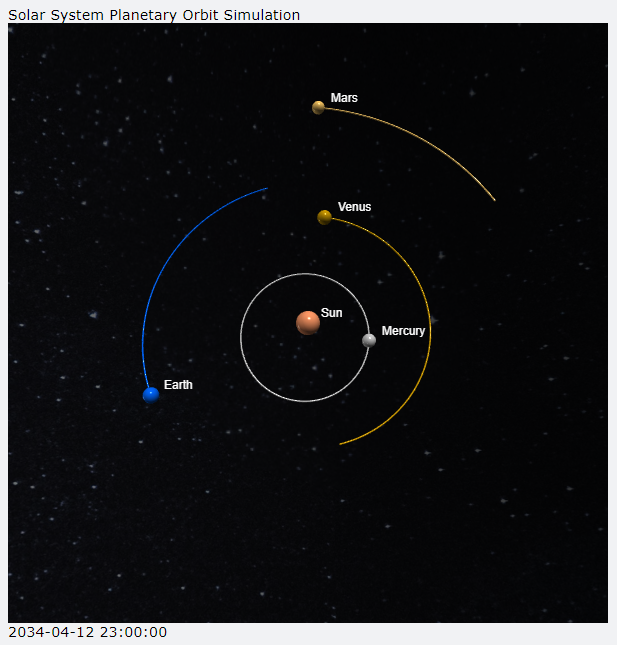
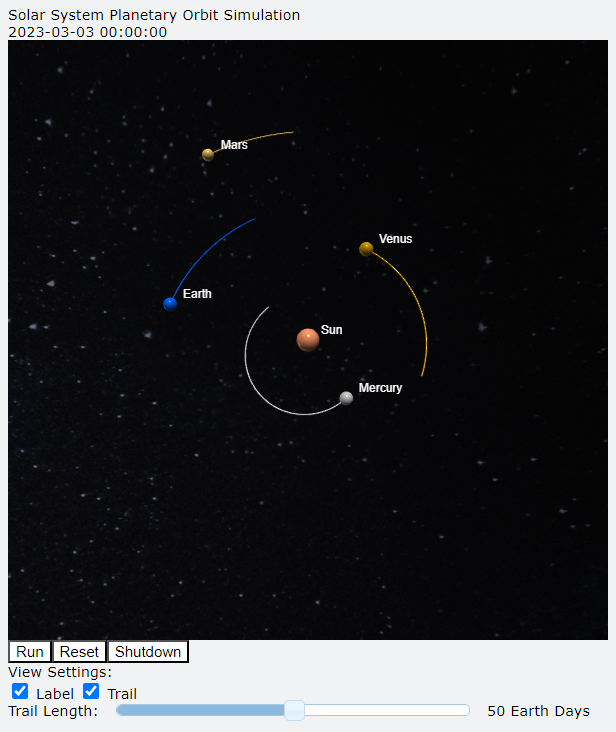
add reset shutdown button

diff --git a/main.py b/main.py
@@ -20,8 +20,7 @@ class Body():
         self.v = vec(self.q["vx"].to("km / s").value[0], self.q["vy"].to("km / s").value[0], self.q["vz"].to("km / s").value[0])
         self.a = vec(0, 0, 0)
         self.body = sphere(pos=self.pos, v=self.v, mass=self.mass, radius=np.log(self.radius)*8e5, color=self.color, 
-                           make_trail=True, trail_color=self.color, trail_radius=8e5, retain=25, interval=24)
-        # self.trail = attach_trail(self.body, color=self.color, radius=8e5, retain=100, interval=24)
+                           make_trail=True, trail_color=self.color, trail_radius=8e5, retain=trail_length, interval=trail_interval)
         self.label = label(pos=self.pos, text=name, xoffset=8, yoffset=8, space=self.radius, height=12,
                            color=vec(1, 1, 1), opacity=0, box=False, line=False)
     def update(self, dt):   
@@ -31,11 +30,35 @@ class Body():
         self.body.pos += self.v * self.dt
         self.label.pos = self.body.pos
 
+def init():
+    global bodys, t, running, reseting
+    for i, name in enumerate(names):
+        planet = np.load("./data/"+name+".npy", allow_pickle=True).item()
+        bodys[i].body.visible = False
+        bodys[i].label.visible = False
+        bodys[i].body.clear_trail()
+        bodys[i].__init__(planet["ID"], planet["name"], planet["mass"], planet["radius"], planet["color"], t_start)
+    checkbox_label.checked = True
+    checkbox_trail.checked = True
+    slider_trail.value = trail_length
+    length_trail(slider_trail)
+    t = t_start
+    running = True
+    reseting = False
+
 def run_pause(btn_run_pause):
     global running
     running = not running
     if running: btn_run_pause.text = "Pause"
     else: btn_run_pause.text = "Run"
+
+def reset(btn_reset):
+    global reseting
+    reseting = not reseting
+
+def shutdown(btn_stop):
+    global going
+    going = not going
 
 def view_label(checkbox_label):
     for body in bodys:
@@ -46,43 +69,66 @@ def view_trial(checkbox_trail):
         body.body.clear_trail()
         body.body.make_trail = not body.body.make_trail
 
-def trail_length(slider_trail):
+def length_trail(slider_trail):
     for body in bodys:
         body.body.retain = slider_trail.value
+    text_trail.text = " {} Earth Days".format(str(int(dt.value*trail_interval*slider_trail.value/86400)))
+
+def clear_screen():
+    btn_run_pause.delete()
+    btn_reset.delete()
+    btn_stop.delete()
+    checkbox_label.delete()
+    checkbox_trail.delete()
+    slider_trail.delete()
+    scene.delete()
+    scene.title = ""
+    scene.caption = "Solar System Planetary Orbit Simulation has stopped."
 
 #%% Main code
 # parameter and initialize value
 G = constants.G.to("km3 / (kg s2)").value
-t = Time("2023-01-01")
+t_start = Time("2023-01-01")
 dt = 60*60 * u.s
+trail_interval = 24
+trail_length = 50
 running = True
+reseting = False
+going = True
 
 # initialize canvas
 scene = canvas(title="Solar System Planetary Orbit Simulation\n", width=600, height=600, background=color.black, autoscale = False)
-text_time = wtext(pos=scene.title_anchor, text=t.strftime("%Y-%m-%d %H:%M:%S"))
+text_time = wtext(pos=scene.title_anchor, text=t_start.strftime("%Y-%m-%d %H:%M:%S"))
 names = ["Sun", "Mercury", "Venus", "Earth", "Mars"] # , "Jupiter", "Saturn", "Uranus", "Neptune"
 bodys = []
 for i, name in enumerate(names):
-    body = np.load("./data/"+name+".npy", allow_pickle=True).item()
-    bodys.append(Body(body["ID"], body["name"], body["mass"], body["radius"], body["color"], t))
+    planet = np.load("./data/"+name+".npy", allow_pickle=True).item()
+    bodys.append(Body(planet["ID"], planet["name"], planet["mass"], planet["radius"], planet["color"], t_start))
 scene.range = 1.2*mag(bodys[-1].pos)
 background = sphere(texture="./fig/background.jpg", radius=5*mag(scene.center - scene.camera.pos), shininess=0)
 btn_run_pause = button(pos=scene.caption_anchor, text="Pause", bind=run_pause)
+btn_reset = button(pos=scene.caption_anchor, text="Reset", bind=reset)
+btn_stop = button(pos=scene.caption_anchor, text="Shutdown", bind=shutdown)
 scene.append_to_caption("\nView Settings:\n")
 checkbox_label = checkbox(pos=scene.caption_anchor, text="Label ", checked=True, bind=view_label)
 checkbox_trail = checkbox(pos=scene.caption_anchor, text="Trail ", checked=True, bind=view_trial)
 scene.append_to_caption("\nTrail Length: ")
-slider_trail = slider(pos=scene.caption_anchor, min=0, max=100, value=25, bind=trail_length)
+slider_trail = slider(pos=scene.caption_anchor, min=0, max=100, value=trail_length, bind=length_trail)
+text_trail = wtext(pos=scene.caption_anchor, text=" {} Earth Days".format(str(int(dt.value*trail_interval*trail_length/86400))))
 
 # simulation
-while True:
+t = t_start
+while going:
     rate(5*24)
     if running:
         for body in bodys[1:]:
             body.update(dt)
         text_time.text = t.strftime("%Y-%m-%d %H:%M:%S")
+        t += dt
+    if reseting:
+        init()
     if mag(scene.center - scene.camera.pos) > background.radius:
         background.visible = False
     else:
         background.visible = True
-    t += dt
+clear_screen()
